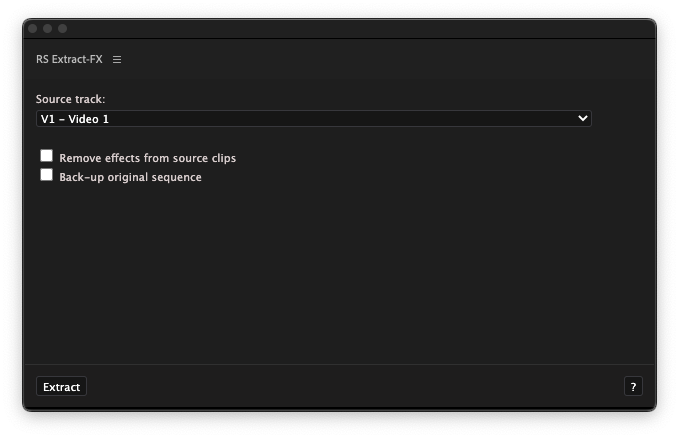
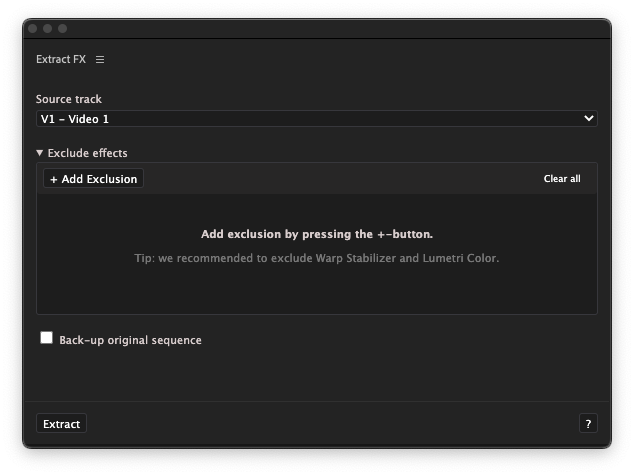
Updated readme - Added new controls info.

diff --git a/ReadMe.md b/ReadMe.md
@@ -1,11 +1,13 @@
 # RS Extract-fx
 
-
+[TOC]
 
 ## What is it for?
+
 *RS Extract-fx* is a Premiere Pro plugin that automates mass moving video effects to 'adjustment layers' just above the clip. This is especially useful while prepping for color grading in programs like Davinci Resolve. Once reimported, the effects can be restored by placing the processed footage under the generated adjustment layers. 
 
 ## What effects are supported?
+
 - `Motion`-effects (position, scale, rotation etc.)
 - Other video effects from the `effects`-panel.
 
@@ -16,7 +18,7 @@
 ## ![program](payloads/program.png)
 
 - **Source track**: select the video track you would like to extract effects from. Make sure you've simplified your footage to one video track.
-- **Remove effects from source clips**: removes all attributes from the original video clips after the effects have been copied.
+- **Exclude effects**: specify effects that should not be moved to the adjustment layers.
 - **Back-up original sequence:** duplicates the current sequence before processing. This enables you te revert to your original sequence in case an error occurs.
 - `Extract`-button: this button starts the copying process.
 - `?`-button: Help-button that opens the plugin's manual. 
